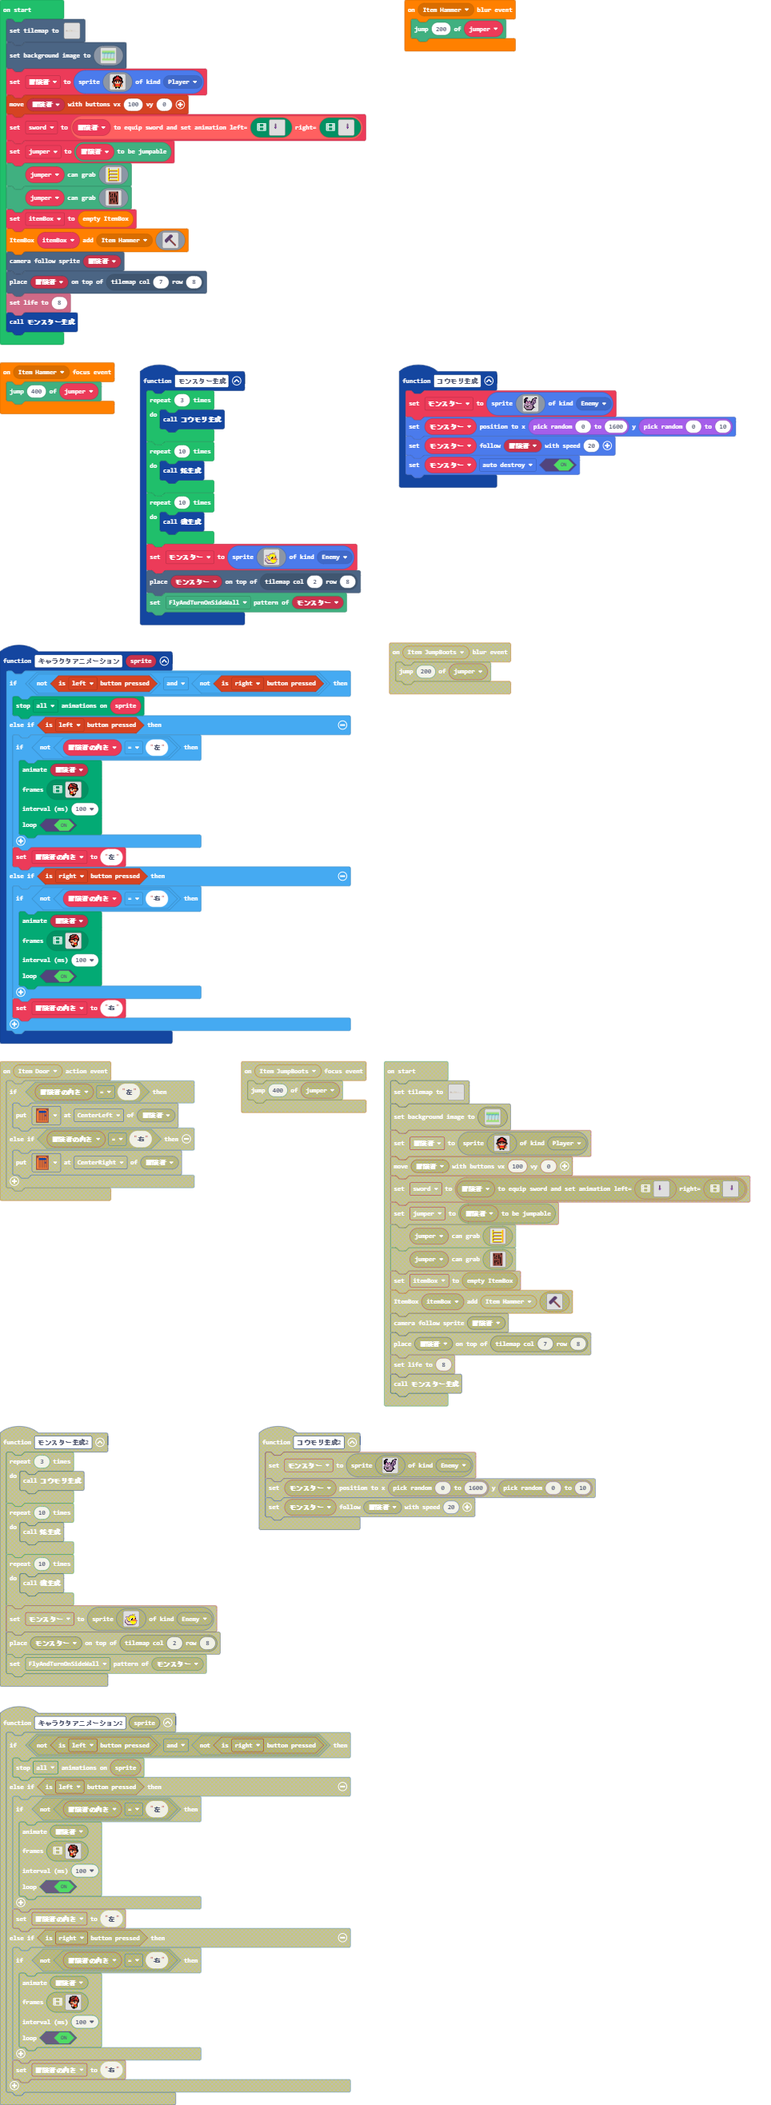
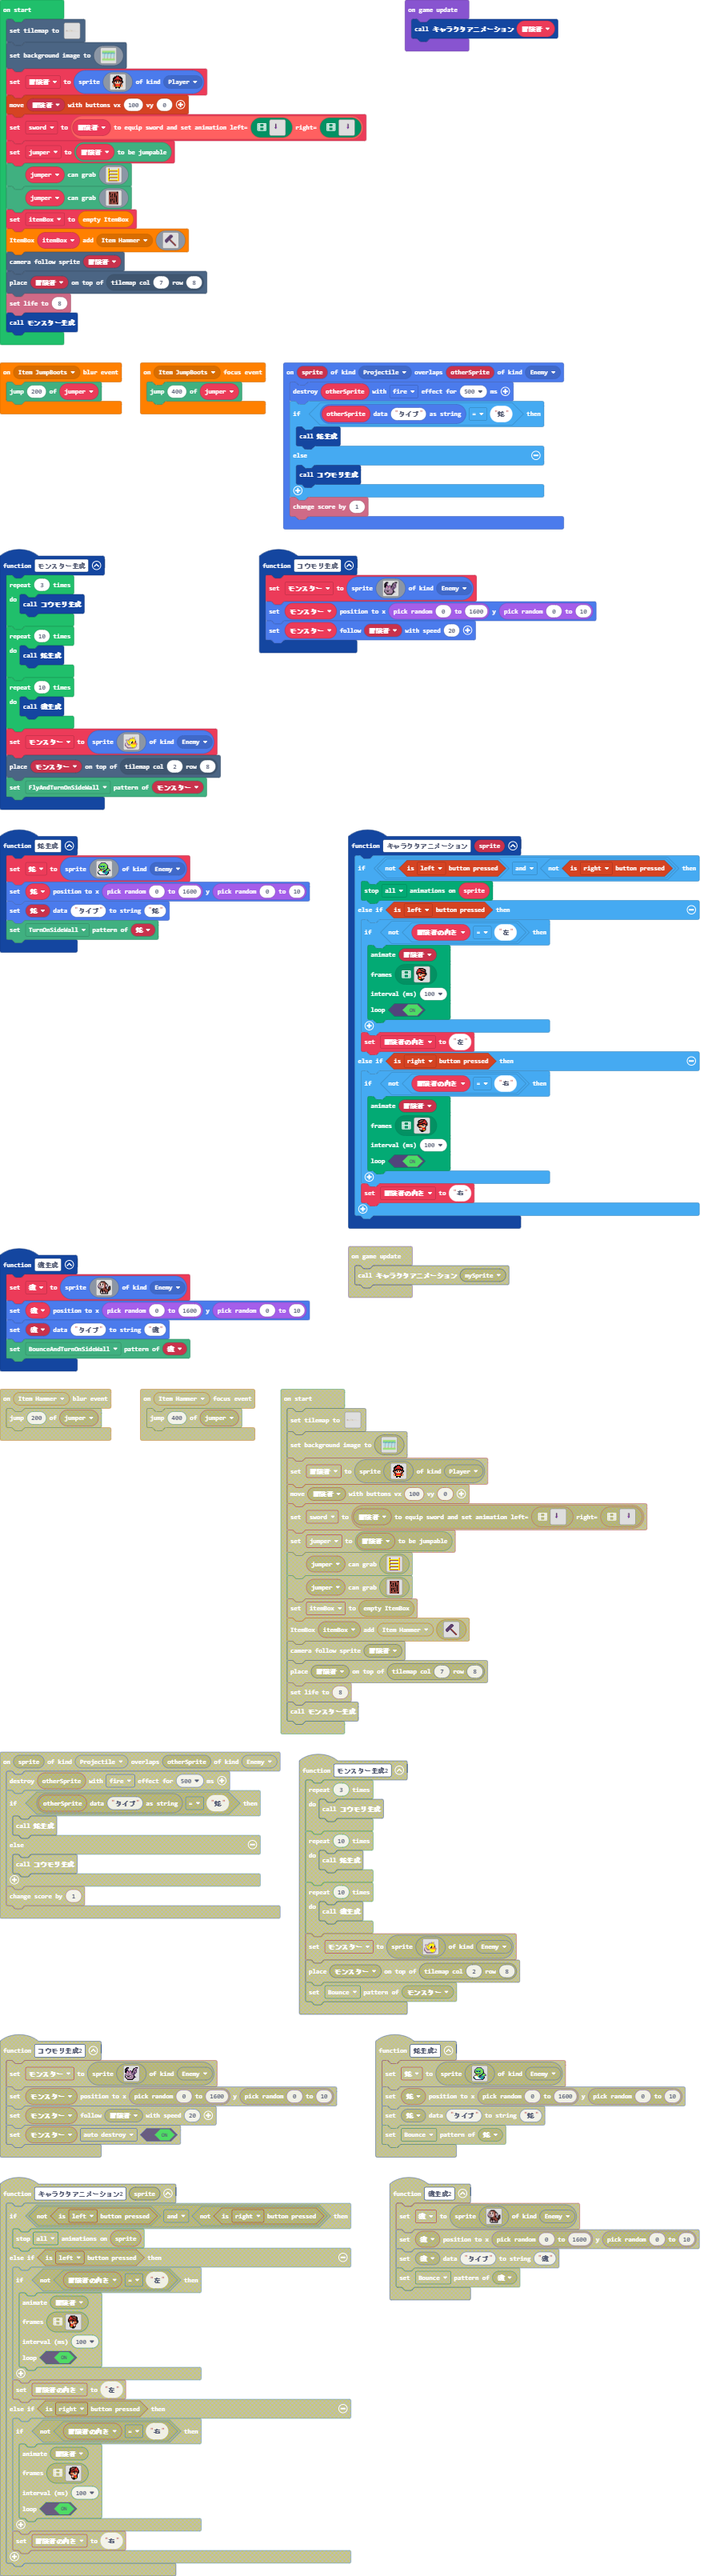
Update pxt.json, main.blocks, main.ts, tilemap.g.jres, tilemap.g.ts, behavior.ts

diff --git a/main.ts b/main.ts
@@ -21,7 +21,7 @@ function 猿生成 () {
     猿 = sprites.create(assets.image`monkey_left`, SpriteKind.Enemy)
     猿.setPosition(randint(0, 1600), randint(0, 10))
     sprites.setDataString(猿, "タイプ", "猿")
-    behavior.setPattern(猿, behavior.Pattern.BounceAndTurnOnSideWall)
+    behavior.setPattern(猿, behavior.MovePattern.BounceAndTurnOnSideWall)
 }
 controller.A.onEvent(ControllerButtonEvent.Pressed, function () {
     if (冒険者の向き == "左") {
@@ -72,7 +72,7 @@ function モンスター生成 () {
         . . . c c c c c c c c b b . . . 
         `, SpriteKind.Enemy)
     tiles.placeOnTile(モンスター, tiles.getTileLocation(2, 8))
-    behavior.setPattern(モンスター, behavior.Pattern.FlyAndTurnOnSideWall)
+    behavior.setPattern(モンスター, behavior.MovePattern.FlyAndTurnOnSideWall)
 }
 controller.left.onEvent(ControllerButtonEvent.Pressed, function () {
     if (controller.B.isPressed()) {
@@ -85,9 +85,6 @@ itembox.util.onEvent(ItemKind.Sword, function () {
     } else if (冒険者の向き == "右") {
         sword.wield(weapons.sword.Direction.Right)
     }
-})
-itembox.util.onFocus(ItemKind.JumpBoots, function () {
-    jumper.setSpeed(400)
 })
 scene.onOverlapTile(SpriteKind.Player, assets.tile`hand_gun`, function (sprite, location) {
     tiles.setTileAt(location, assets.tile`transparency16`)
@@ -132,7 +129,7 @@ function 蛇生成 () {
     蛇 = sprites.create(assets.image`snake_left`, SpriteKind.Enemy)
     蛇.setPosition(randint(0, 1600), randint(0, 10))
     sprites.setDataString(蛇, "タイプ", "蛇")
-    behavior.setPattern(蛇, behavior.Pattern.TurnOnSideWall)
+    behavior.setPattern(蛇, behavior.MovePattern.TurnOnSideWall)
 }
 scene.onOverlapTile(SpriteKind.Player, assets.tile`door`, function (sprite, location) {
     tiles.setTileAt(location, assets.tile`transparency16`)
@@ -163,13 +160,12 @@ function コウモリ生成 () {
         `, SpriteKind.Enemy)
     モンスター.setPosition(randint(0, 1600), randint(0, 10))
     モンスター.follow(冒険者, 20)
-    モンスター.setFlag(SpriteFlag.AutoDestroy, true)
 }
 controller.B.onEvent(ControllerButtonEvent.Released, function () {
     controller.moveSprite(冒険者, 100, 0)
 })
-itembox.util.onBlur(ItemKind.JumpBoots, function () {
-    jumper.setSpeed(200)
+itembox.util.onFocus(ItemKind.JumpBoots, function () {
+    jumper.setSpeed(400)
 })
 itembox.util.onEvent(ItemKind.Wall, function () {
     if (controller.up.isPressed()) {
@@ -358,6 +354,9 @@ function キャラクタアニメーション (sprite: Sprite) {
         冒険者の向き = "右"
     }
 }
+itembox.util.onBlur(ItemKind.JumpBoots, function () {
+    jumper.setSpeed(200)
+})
 sprites.onOverlap(SpriteKind.Projectile, SpriteKind.Enemy, function (sprite, otherSprite) {
     otherSprite.destroy(effects.fire, 500)
     if (sprites.readDataString(otherSprite, "タイプ") == "蛇") {

diff --git a/behavior.ts b/behavior.ts
@@ -5,7 +5,7 @@ namespace behavior {
         update() : void
     }
 
-    export enum Pattern {
+    export enum MovePattern {
         Bounce,
         TurnOnSideWall,
         BounceAndTurnOnSideWall,
@@ -87,15 +87,15 @@ namespace behavior {
             }
         }
 
-        export function createBehavior(sprite: Sprite, pattern: Pattern) : Behavior {
+        export function createBehavior(sprite: Sprite, pattern: MovePattern) : Behavior {
             switch(pattern) {
-            case Pattern.Bounce:
+            case MovePattern.Bounce:
                 return new BounceBehavior(sprite);
-            case Pattern.TurnOnSideWall:
+            case MovePattern.TurnOnSideWall:
                 return new TurnOnSideWallBehavior(sprite);
-            case Pattern.BounceAndTurnOnSideWall:
+            case MovePattern.BounceAndTurnOnSideWall:
                 return new BounceAndTurnOnSideWallBehavior(sprite);
-            case Pattern.FlyAndTurnOnSideWall:
+            case MovePattern.FlyAndTurnOnSideWall:
                 return new FlyAndTurnOnSideWallBehavior(sprite);
             default:
                 return null;
@@ -112,7 +112,7 @@ namespace behavior {
     })
 
     //% block="set $pattern pattern of $sprite=variables_get(aEnemy)"
-    export function setPattern(sprite: Sprite, pattern: Pattern) {
+    export function setPattern(sprite: Sprite, pattern: MovePattern) {
         sprite.onDestroyed(() => {
             let found = _items.find((item: {sprite:Sprite, behavior:Behavior}, index: number) => {
                 return item.sprite == sprite;

diff --git a/tilemap.g.ts b/tilemap.g.ts
@@ -162,6 +162,25 @@ namespace myTiles {
 . . . . . . . . . . . . . . . . 
 . . . . . . . . . . . . . . . . 
 `, [myTiles.transparency16], TileScale.Sixteen);
+            case "level8":
+            case "level8":return tiles.createTilemap(hex`1000100000000000000000000000000000000000000000000000000000000000000000000000000000000000000000000000000000000000000000000000000000000000000000000000000000000000000000000000000000000000000000000000000000000000000000000000000000000000000000000000000000000000000000000000000000000000000000000000000000000000000000000000000000000000000000000000000000000000000000000000000000000000000000000000000000000000000000000000000000000000000000000000000000000000000000000000000000000000000000000000000000000000000000000000000000000000`, img`
+. . . . . . . . . . . . . . . . 
+. . . . . . . . . . . . . . . . 
+. . . . . . . . . . . . . . . . 
+. . . . . . . . . . . . . . . . 
+. . . . . . . . . . . . . . . . 
+. . . . . . . . . . . . . . . . 
+. . . . . . . . . . . . . . . . 
+. . . . . . . . . . . . . . . . 
+. . . . . . . . . . . . . . . . 
+. . . . . . . . . . . . . . . . 
+. . . . . . . . . . . . . . . . 
+. . . . . . . . . . . . . . . . 
+. . . . . . . . . . . . . . . . 
+. . . . . . . . . . . . . . . . 
+. . . . . . . . . . . . . . . . 
+. . . . . . . . . . . . . . . . 
+`, [myTiles.transparency16], TileScale.Sixteen);
         }
         return null;
     })
